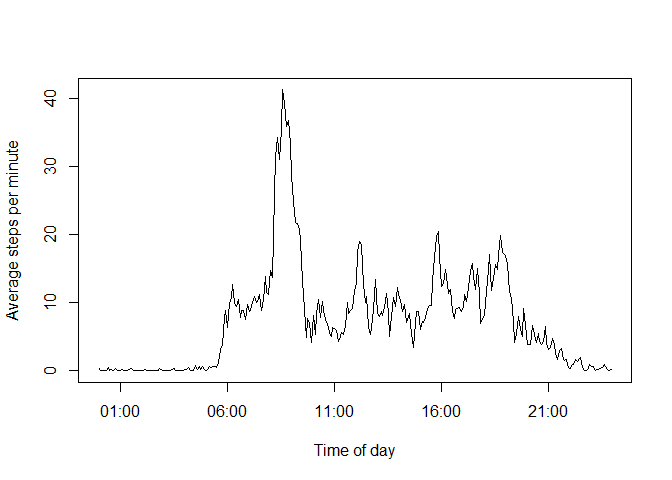
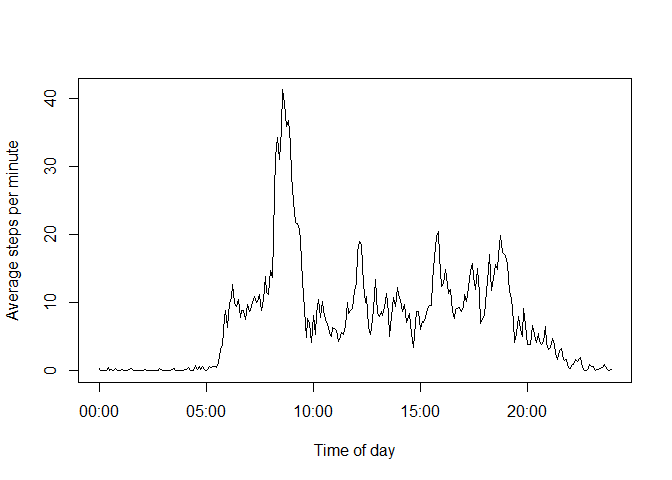
Draft for submission`

diff --git a/PA1_template.html b/PA1_template.html
@@ -64,19 +64,24 @@ img {
 </div>
 
 
+<p>This is an exercise in using literate programming tools in R - original dataset has number of steps taken during 5-minute intervals over many days. We are to ask and answer some questions about this data.</p>
 <div id="loading-and-preprocessing-the-data" class="section level2">
 <h2>Loading and preprocessing the data</h2>
-<pre class="r"><code># Directory is custom for your computer, set it correctly
+<p>Main text of the document will show research points, while code and technical data handling specifics should stay in the code chunks, which will have to be commented on their own.</p>
+<pre class="r"><code>## The data file is supposed to be downloaded prior to running the code,
+## as conditioned by this exercise.
+
+# Directory is custom for your computer, set it correctly.
 setwd(&quot;~/Coursera-R/RepData_PeerAssessment1/&quot;)
 
-# Original Github branch has the data zipped, let's extract it
+# Original Github branch has the data zipped, let's extract it.
 if(!file.exists(&quot;activity.csv&quot;)) unzip(&quot;activity.zip&quot;)
 
 # read the file
 data&lt;-read.csv(&quot;activity.csv&quot;)
 
 # Later we will need to have intervals as actual time for charts,
-# so let us make them uniform to ease strptime conversion
+# so let us make them uniform to ease strptime conversion.
 data$interval&lt;-sapply(data$interval,
                       function(i){
                               i.length&lt;-nchar(as.character(i))
@@ -85,7 +90,8 @@ data$interval&lt;-sapply(data$interval,
                                 paste0(prefix,i)}
                               else i
                               }
-                      )</code></pre>
+                      )
+data$date&lt;-as.Date(data$date,&quot;%Y-%m-%d&quot;)</code></pre>
 </div>
 <div id="what-is-mean-total-number-of-steps-taken-per-day" class="section level2">
 <h2>What is mean total number of steps taken per day?</h2>
@@ -101,7 +107,7 @@ hist(sum,
 <pre class="r"><code>summary(sum)</code></pre>
 <pre><code>##    Min. 1st Qu.  Median    Mean 3rd Qu.    Max. 
 ##       0    6778   10400    9354   12810   21190</code></pre>
-<p>Mean is 9354, median is 10400.</p>
+<p>Mean is 9354, median is 10400. This person apparently knows a saying “10000 Steps a Day to Keep the Doctor Away” as they seem to target this amount of steps.</p>
 </div>
 <div id="what-is-the-average-daily-activity-pattern" class="section level2">
 <h2>What is the average daily activity pattern?</h2>
@@ -110,12 +116,14 @@ hist(sum,
                 mean,
                 na.rm=TRUE)
 
+# Convert interval to times to make x labels more meaningful
+
 plot(strptime(names(pattern),&quot;%H%M&quot;),
      pattern/5,
      type=&quot;l&quot;,
      xlab=&quot;Time of day&quot;,  
      ylab=&quot;Average steps per minute&quot;)</code></pre>
[2 lines of base64/hex data omitted]
 <pre class="r"><code>which.max(pattern)</code></pre>
 <pre><code>## 0835 
 ##  104</code></pre>
@@ -123,7 +131,7 @@ plot(strptime(names(pattern),&quot;%H%M&quot;),
 </div>
 <div id="imputing-missing-values" class="section level2">
 <h2>Imputing missing values</h2>
-<p>Calculate the total number of missing values in the dataset</p>
+<p>How many missing values there’s in the dataset?</p>
 <pre class="r"><code>sum(is.na(data))</code></pre>
 <pre><code>## [1] 2304</code></pre>
 <p>Let’s replace NAs with average value for the interval and make a new dataset.</p>
@@ -148,10 +156,43 @@ hist(sum1,
 <pre class="r"><code>summary(sum1)</code></pre>
 <pre><code>##    Min. 1st Qu.  Median    Mean 3rd Qu.    Max. 
 ##      41    9819   10770   10770   12810   21190</code></pre>
-<p>And they did.</p>
+<p>We don’t have a peak column at left side anymore, the distribution looks more reasonable now, although mean and median still close enough to their previous levels.</p>
 </div>
 <div id="are-there-differences-in-activity-patterns-between-weekdays-and-weekends" class="section level2">
 <h2>Are there differences in activity patterns between weekdays and weekends?</h2>
+<pre class="r"><code># Let's load libraries for this one silently with message=FALSE.
+library(dplyr)
+library(lattice)</code></pre>
+<pre class="r"><code># First, add a new column that will indicate if it's a weekend or not.  
+# Then juxtapose weekday and weekend data to see how pattern is changed.  
+weekpart&lt;-function(dt){
+        if(weekdays(dt) %in% c(&quot;Saturday&quot;,&quot;Sunday&quot;)) &quot;weekend&quot; else &quot;weekday&quot;}
+weekpart&lt;-sapply(d$date,weekpart)
+d&lt;-cbind(d,weekpart)
+
+# summarise step means for each 5 minutes interval separately for each weekpart
+patternw&lt;-d %&gt;% group_by(interval,weekpart) %&gt;% summarise(steps=mean(steps))
+
+# vertical placement of charts allows to see per-hour comparison more clearly
+with(patternw,
+            xyplot(steps/5 ~ as.numeric(interval) | weekpart,
+                   layout=1:2,
+                   xlab=&quot;Hour of the day&quot;,
+                   ylab=&quot;Number of steps per minute&quot;,
+                   type=&quot;l&quot;,
+                   scales=list(
+                           # Instead of numeric, draw interval as time again,
+                           # but in a simpler way this time - as xyplot()
+                           # has some issues with POSIXlt
+                           x=list(
+                                   at=seq(0,2400,200),
+                                   labels=as.character(seq(0,24,2))
+                                   )
+                           )
+                   )
+            )</code></pre>
[1 lines of base64/hex data omitted]
+<p>Morning walking peak is more pronounced on weekdays, so there’s some weekday routine. Average weekend’s morning peak is not as tall, and doesn’t dominate as much over the following day. The person doesn’t sleep in much on weekends though.</p>
 </div>
 
 

diff --git a/PA1_template.md b/PA1_template.md
@@ -1,21 +1,31 @@
 # Reproducible Research: Peer Assessment 1
 
+This is an exercise in using literate programming tools in R - original dataset
+has number of steps taken during 5-minute intervals over many days. We are to
+ask and answer some questions about this data. 
 
 ## Loading and preprocessing the data
 
+Main text of the document will
+show research points, while code and technical data handling specifics should
+stay in the code chunks, which will have to be commented on their own.
+
 
 ```r
-# Directory is custom for your computer, set it correctly
+## The data file is supposed to be downloaded prior to running the code,
+## as conditioned by this exercise.
+
+# Directory is custom for your computer, set it correctly.
 setwd("~/Coursera-R/RepData_PeerAssessment1/")
 
-# Original Github branch has the data zipped, let's extract it
+# Original Github branch has the data zipped, let's extract it.
 if(!file.exists("activity.csv")) unzip("activity.zip")
 
 # read the file
 data<-read.csv("activity.csv")
 
 # Later we will need to have intervals as actual time for charts,
-# so let us make them uniform to ease strptime conversion
+# so let us make them uniform to ease strptime conversion.
 data$interval<-sapply(data$interval,
                       function(i){
                               i.length<-nchar(as.character(i))
@@ -25,6 +35,7 @@ data$interval<-sapply(data$interval,
                               else i
                               }
                       )
+data$date<-as.Date(data$date,"%Y-%m-%d")
 ```
 
 ## What is mean total number of steps taken per day?
@@ -53,7 +64,10 @@ summary(sum)
 ```
 
 
-Mean is 9354, median is 10400.
+Mean is 9354,
+median is 10400. This person apparently
+knows a saying "10000 Steps a Day to Keep the Doctor Away" as they seem
+to target this amount of steps.         
 
 ## What is the average daily activity pattern?
 
@@ -64,6 +78,8 @@ pattern<-tapply(data$steps,
                 data$interval,
                 mean,
                 na.rm=TRUE)
+
+# Convert interval to times to make x labels more meaningful
 
 plot(strptime(names(pattern),"%H%M"),
      pattern/5,
@@ -89,7 +105,7 @@ The most step usually happen in five minutes that start on
 
 ## Imputing missing values
 
-Calculate the total number of missing values in the dataset
+How many missing values there's in the dataset?
 
 ```r
 sum(is.na(data))
@@ -141,7 +157,54 @@ summary(sum1)
 ##      41    9819   10770   10770   12810   21190
 ```
 
-And they did.
-
+We don't have a peak column at left side anymore, the distribution looks more
+reasonable now, although mean and median still close enough to their previous
+levels.
 
 ## Are there differences in activity patterns between weekdays and weekends?
+
+
+```r
+# Let's load libraries for this one silently with message=FALSE.
+library(dplyr)
+library(lattice)
+```
+
+
+```r
+# First, add a new column that will indicate if it's a weekend or not.  
+# Then juxtapose weekday and weekend data to see how pattern is changed.  
+weekpart<-function(dt){
+        if(weekdays(dt) %in% c("Saturday","Sunday")) "weekend" else "weekday"}
+weekpart<-sapply(d$date,weekpart)
+d<-cbind(d,weekpart)
+
+# summarise step means for each 5 minutes interval separately for each weekpart
+patternw<-d %>% group_by(interval,weekpart) %>% summarise(steps=mean(steps))
+
+# vertical placement of charts allows to see per-hour comparison more clearly
+with(patternw,
+            xyplot(steps/5 ~ as.numeric(interval) | weekpart,
+                   layout=1:2,
+                   xlab="Hour of the day",
+                   ylab="Number of steps per minute",
+                   type="l",
+                   scales=list(
+                           # Instead of numeric, draw interval as time again,
+                           # but in a simpler way this time - as xyplot()
+                           # has some issues with POSIXlt
+                           x=list(
+                                   at=seq(0,2400,200),
+                                   labels=as.character(seq(0,24,2))
+                                   )
+                           )
+                   )
+            )
+```
+
+![](PA1_template_files/figure-html/unnamed-chunk-9-1.png) 
+
+Morning walking peak is more pronounced on weekdays, so there's some weekday
+routine. Average weekend's morning peak is not as tall, and doesn't dominate
+as much over the following day. The person doesn't sleep in much on weekends
+though.
